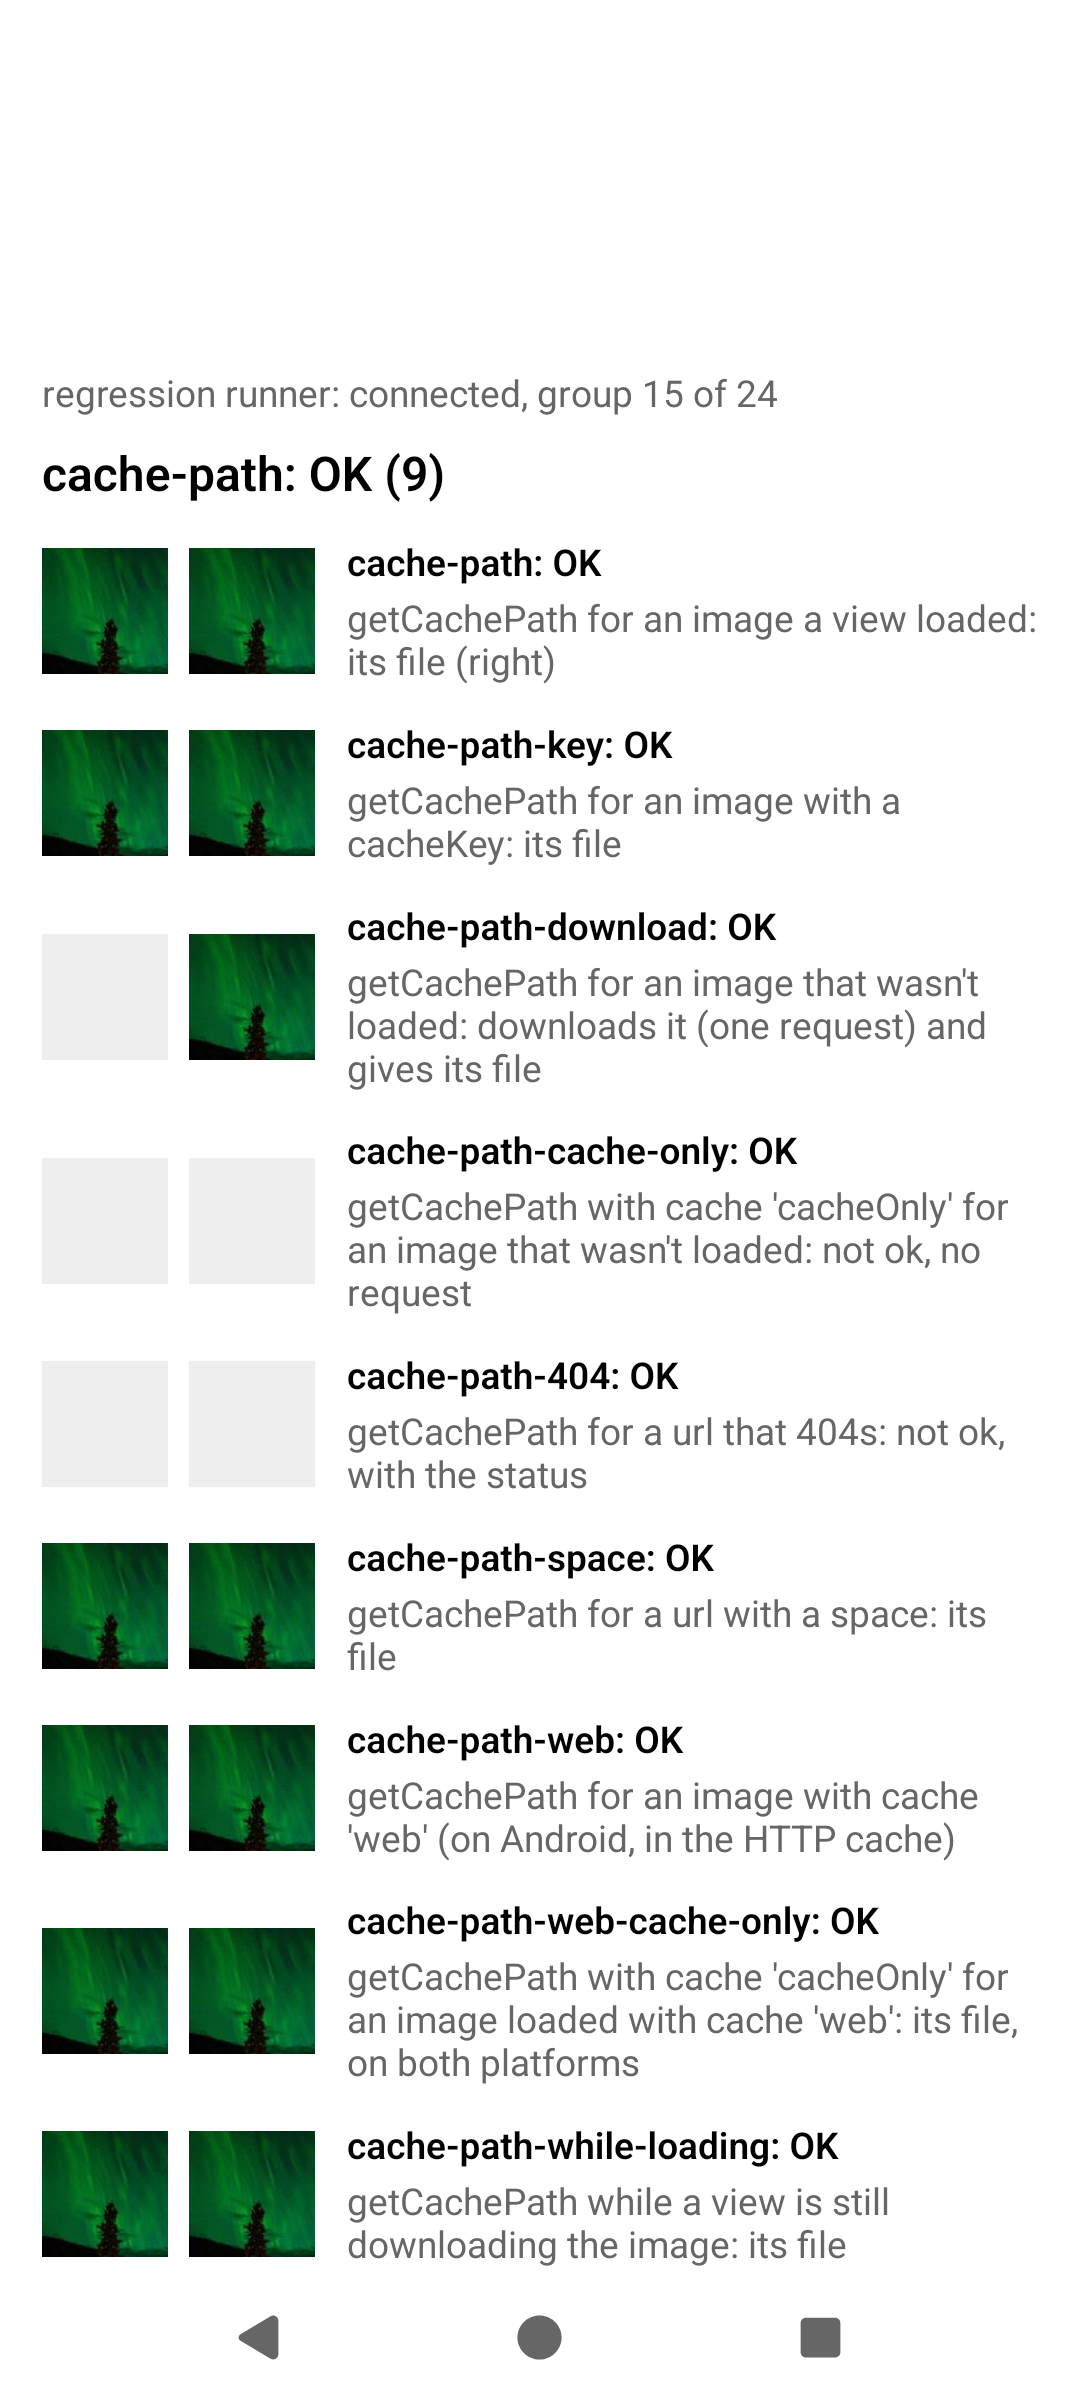
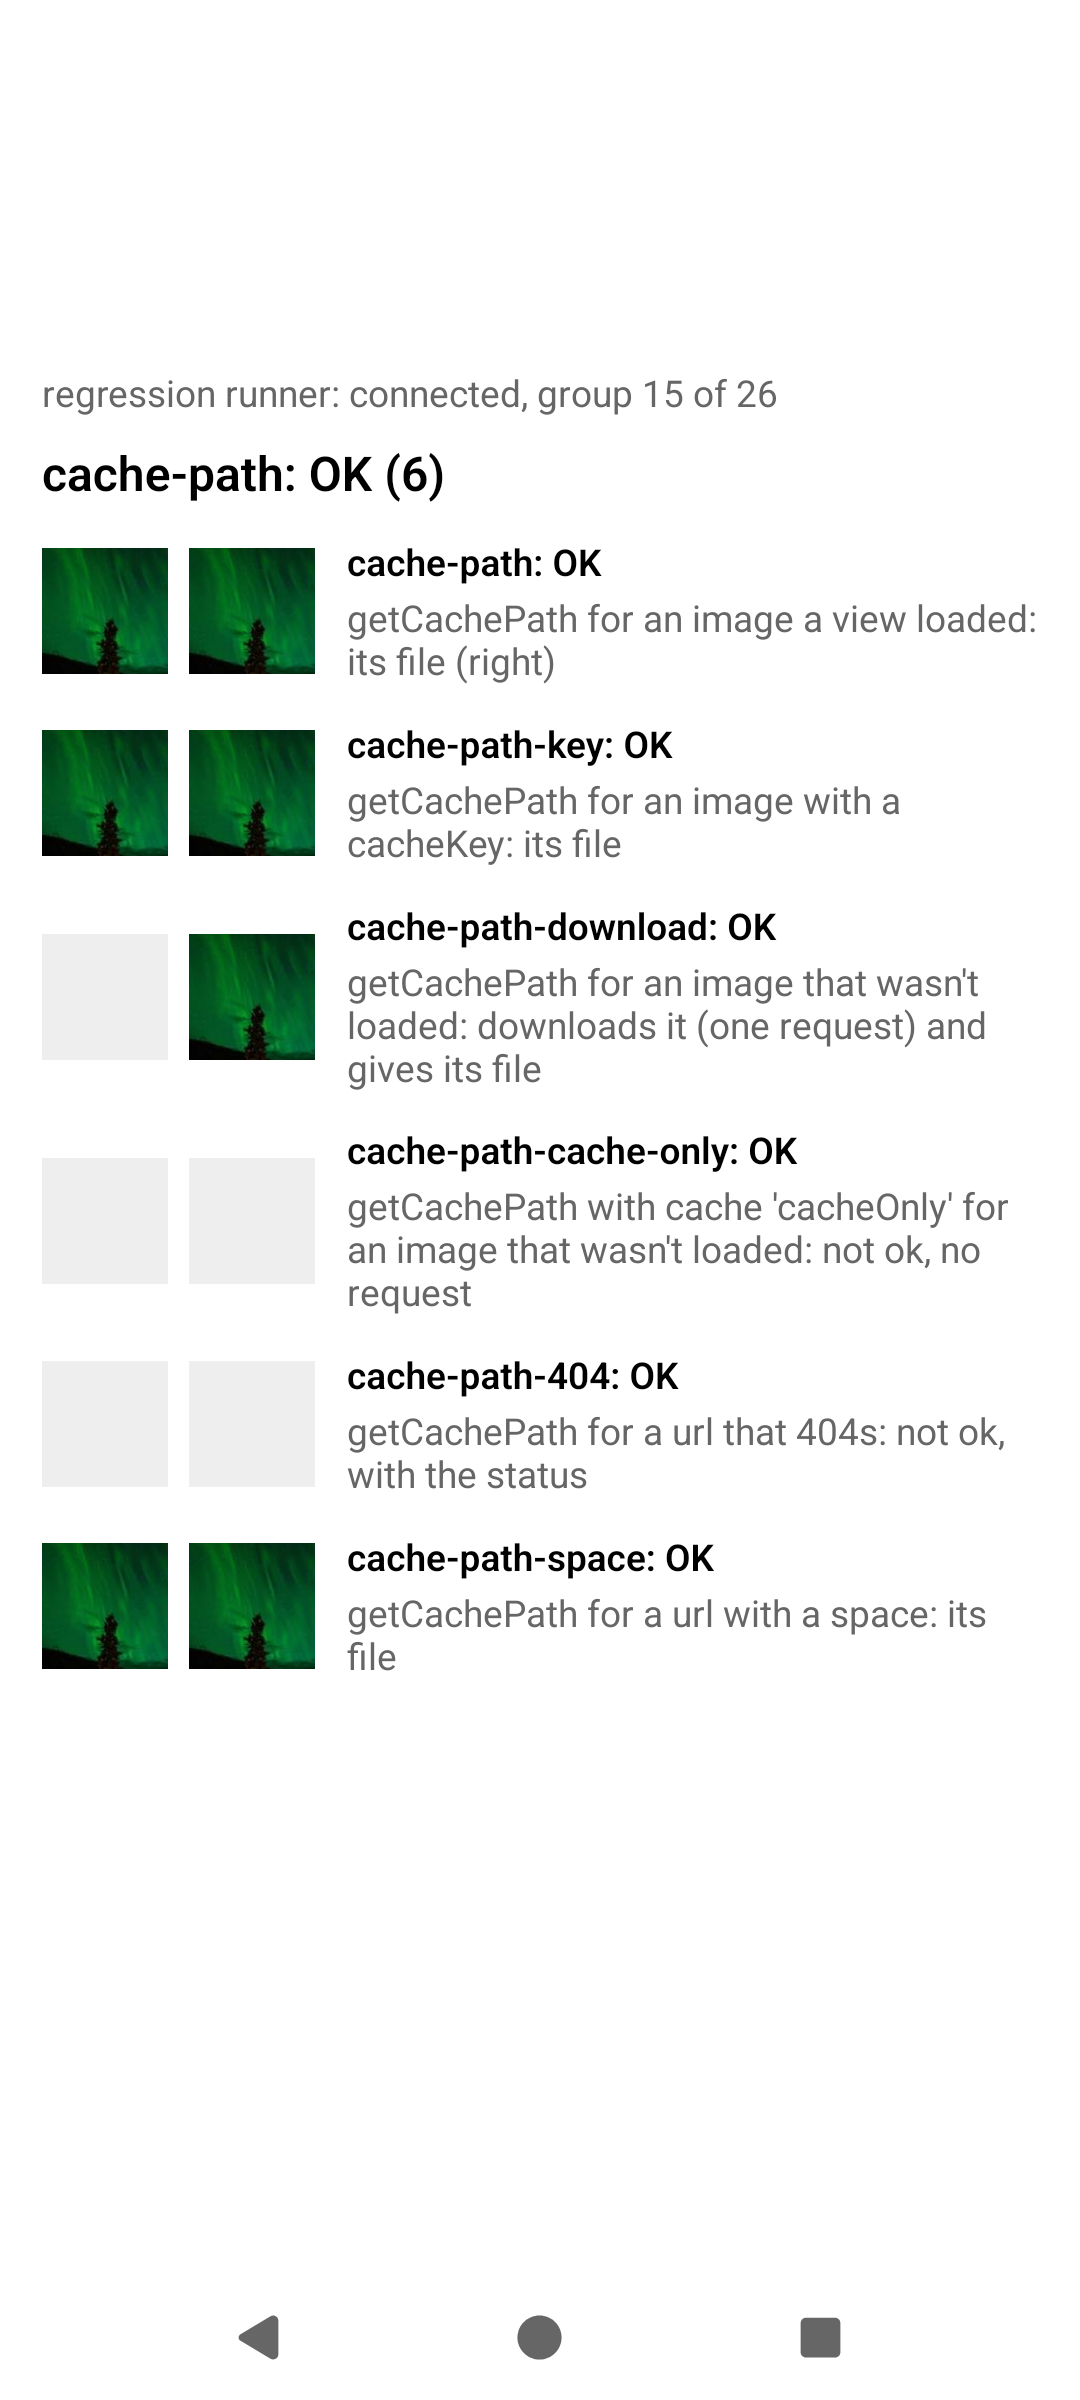
feat: let getCachePath look up a source by its cacheKey alone (#1180)

Changed region(s): [[0.0306, 0.7188, 0.9472, 0.9375], [0.7028, 0.1562, 0.7333, 0.1875], [0.3667, 0.1875, 0.3972, 0.2188]]

diff --git a/ReactNativeFastImageExample/src/RegressionExample.tsx b/ReactNativeFastImageExample/src/RegressionExample.tsx
@@ -1627,11 +1627,14 @@ function CachePathCase({
     cacheOnly,
     missing,
     whileLoading,
+    keyOnly,
 }: {
     id: string
     description: string
     loaded?: boolean
     byCacheKey?: boolean
+    // Asks with only the cacheKey (no uri): only looked up.
+    keyOnly?: boolean
     // A url with a space (iOS caches it escaped).
     space?: boolean
     // With cache 'web', served cacheable (Android keeps it in an HTTP cache).
@@ -1651,7 +1654,7 @@ function CachePathCase({
         : imageUrl(path)
     const source: Source = {
         uri,
-        cacheKey: byCacheKey ? `${id}-${RUN}` : undefined,
+        cacheKey: byCacheKey || keyOnly ? `${id}-${RUN}` : undefined,
         cache: web ? FastImage.cacheControl.web : undefined,
         headers: whileLoading ? BACKGROUND_SLOW_HEADERS : undefined,
     }
@@ -1660,13 +1663,15 @@ function CachePathCase({
     const [shown, setShown] = useState(false)
     const getPath = () =>
         FastImage.getCachePath(
-            cacheOnly
-                ? {
-                      uri,
-                      cacheKey: source.cacheKey,
-                      cache: FastImage.cacheControl.cacheOnly,
-                  }
-                : source,
+            keyOnly
+                ? { cacheKey: source.cacheKey }
+                : cacheOnly
+                  ? {
+                        uri,
+                        cacheKey: source.cacheKey,
+                        cache: FastImage.cacheControl.cacheOnly,
+                    }
+                  : source,
         )
             .then(async (r) => {
                 const response = await fetch(
@@ -1689,7 +1694,7 @@ function CachePathCase({
     }, [])
     // Requests the server got: the view's (if it loaded the image first) and
     // getCachePath's download (if any).
-    const expected = loaded ? 1 : cacheOnly ? 0 : 1
+    const expected = loaded ? 1 : cacheOnly || keyOnly ? 0 : 1
     const status =
         result === undefined
             ? 'waiting'
@@ -1697,7 +1702,7 @@ function CachePathCase({
               ? !result.ok && result.error.includes('404')
                   ? 'OK'
                   : `expected a 404: ${JSON.stringify(result)}`
-              : cacheOnly && !loaded
+              : (cacheOnly || keyOnly) && !loaded
                 ? !result.ok && requests === 0
                     ? 'OK'
                     : `${JSON.stringify(result)}, ${requests} requests`
@@ -3007,6 +3012,11 @@ export const REGRESSION_GROUPS: RegressionGroup[] = [
                 space
                 description="getCachePath for a url with a space: its file"
             />,
+        ],
+    },
+    {
+        name: 'cache-path-more',
+        cases: [
             <CachePathCase
                 key="cache-path-web"
                 id="cache-path-web"
@@ -3021,6 +3031,19 @@ export const REGRESSION_GROUPS: RegressionGroup[] = [
                 web
                 cacheOnly
                 description="getCachePath with cache 'cacheOnly' for an image loaded with cache 'web': its file, on both platforms"
+            />,
+            <CachePathCase
+                key="cache-path-key-only"
+                id="cache-path-key-only"
+                loaded
+                keyOnly
+                description="getCachePath with only a cacheKey (no uri), for an image a view loaded: its file"
+            />,
+            <CachePathCase
+                key="cache-path-key-only-missing"
+                id="cache-path-key-only-missing"
+                keyOnly
+                description="getCachePath with only a cacheKey that isn't cached: not ok, no request"
             />,
             <CachePathCase
                 key="cache-path-while-loading"

diff --git a/src/index.tsx b/src/index.tsx
@@ -476,7 +476,8 @@ export interface FastImageStaticProperties {
     /**
      * The path of the source's downloaded file in the disk cache, downloading
      * it first if it isn't there (without decoding it). With
-     * `cache: 'cacheOnly'` it doesn't download. Never rejects.
+     * `cache: 'cacheOnly'`, or a `cacheKey` without a `uri`, it doesn't
+     * download. Never rejects.
      */
     getCachePath: (source: Source) => Promise<CachePathResult>
     /**

diff --git a/android/src/main/java/com/dylanvann/fastimage/FastImageViewModule.java b/android/src/main/java/com/dylanvann/fastimage/FastImageViewModule.java
@@ -309,12 +309,27 @@ class FastImageViewModule extends ReactContextBaseJavaModule {
     // The source's downloaded file in the disk cache, downloading it first if
     // it isn't there (without decoding it or keeping it in memory, and in the
     // preloads' queue): { ok, path } or { ok: false, error }. Never rejects.
-    // With `cacheOnly` it doesn't download. A local file is its own path.
+    // With `cacheOnly`, or a cacheKey without a uri, it doesn't download. A
+    // local file is its own path.
     @ReactMethod
     public void getCachePath(final ReadableMap source, final Promise promise) {
         final ReactApplicationContext context = getReactApplicationContext();
         if (!FastImageViewConverter.hasUri(source)) {
-            promise.resolve(failure("Invalid source: no uri"));
+            // `web` images ignore cacheKey.
+            final String cacheKey = FastImageViewConverter.getCacheControl(source) == FastImageCacheControl.WEB
+                    ? null
+                    : FastImageViewConverter.getCacheKey(source);
+            if (cacheKey == null) {
+                promise.resolve(failure("Invalid source: no uri or cacheKey"));
+                return;
+            }
+            cachePathExecutor.execute(new Runnable() {
+                @Override
+                public void run() {
+                    File file = cachedFile(context, FastImageKeyedGlideUrl.forKey(cacheKey), new RequestOptions());
+                    promise.resolve(file != null ? pathResult(file) : failure("Not in the disk cache"));
+                }
+            });
             return;
         }
         final FastImageSource imageSource = FastImageViewConverter.getImageSource(context, source);

diff --git a/ios/FastImage/FFFastImageViewManager.m b/ios/FastImage/FFFastImageViewManager.m
@@ -219,13 +219,23 @@ RCT_EXPORT_METHOD(preload:(nonnull NSArray<FFFastImageSource *> *)sources
 // The source's downloaded file in the disk cache, downloading it first if it
 // isn't there (without decoding it or keeping it in memory, and in the
 // preloads' queue): { ok, path } or { ok: false, error }. Never rejects. With
-// `cacheOnly` it doesn't download. A local file is its own path.
+// `cacheOnly`, or a cacheKey without a uri, it doesn't download. A local
+// file is its own path.
 RCT_EXPORT_METHOD(getCachePath:(FFFastImageSource *)source
                   resolve:(RCTPromiseResolveBlock)resolve
                   reject:(__unused RCTPromiseRejectBlock)reject)
 {
     if (!source.url) {
-        resolve(FFFFailure(@"Invalid source: no uri"));
+        NSString *key = FFFDiskCacheKey(source);
+        if (!key) {
+            resolve(FFFFailure(@"Invalid source: no uri or cacheKey"));
+            return;
+        }
+        FFFFindCachedFile(key, ^(NSString *path) {
+            resolve(FFFFile(path));
+        }, ^{
+            resolve(FFFFailure(@"Not in the disk cache"));
+        });
         return;
     }
     if (source.url.isFileURL) {

diff --git a/README.md b/README.md
@@ -367,7 +367,7 @@ if (result.ok) {
 }
 ```
 
-With `cache: 'cacheOnly'` it doesn't download: use it to check whether an image is cached.
+With `cache: 'cacheOnly'` it doesn't download: use it to check whether an image is cached. A source with a `cacheKey` and no `uri` is only looked up too (there's no url to download from), e.g. for an image whose signed url has expired.
 
 ```js
 const { ok } = await FastImage.getCachePath({
